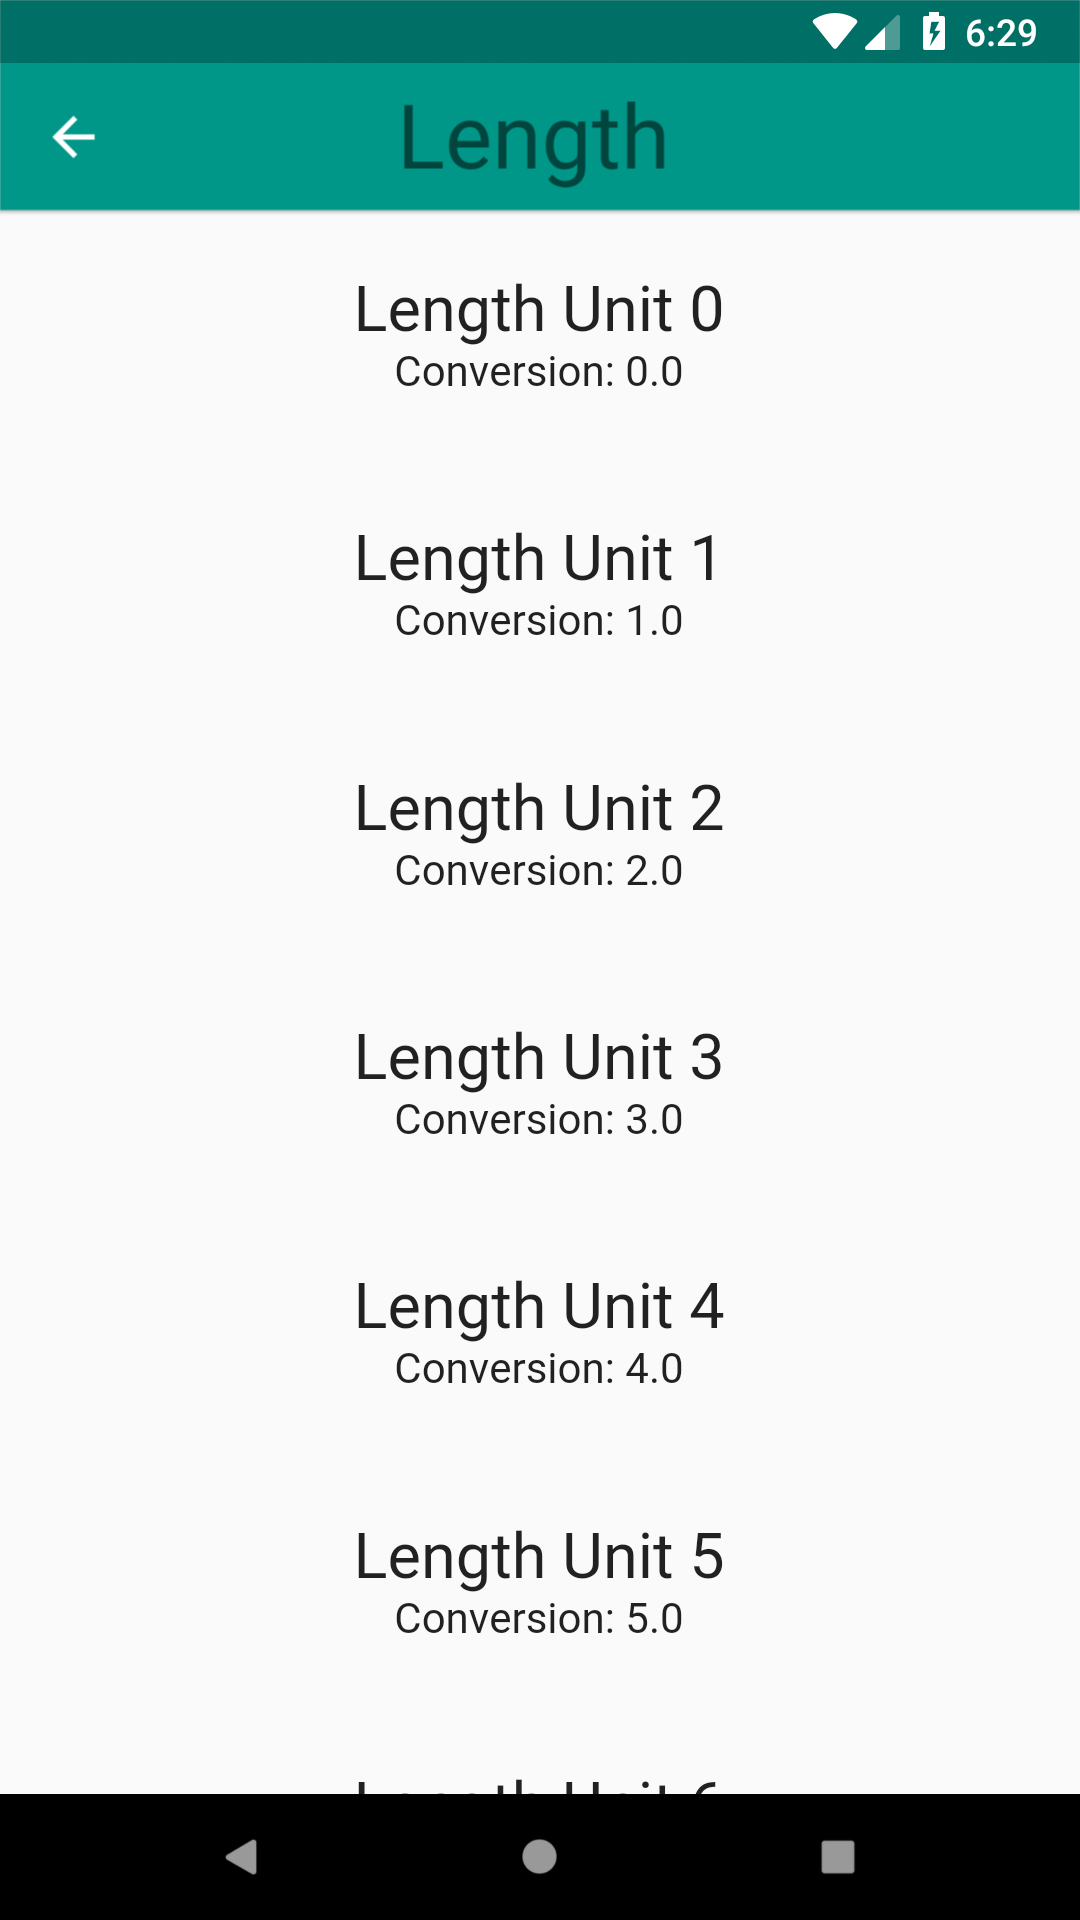
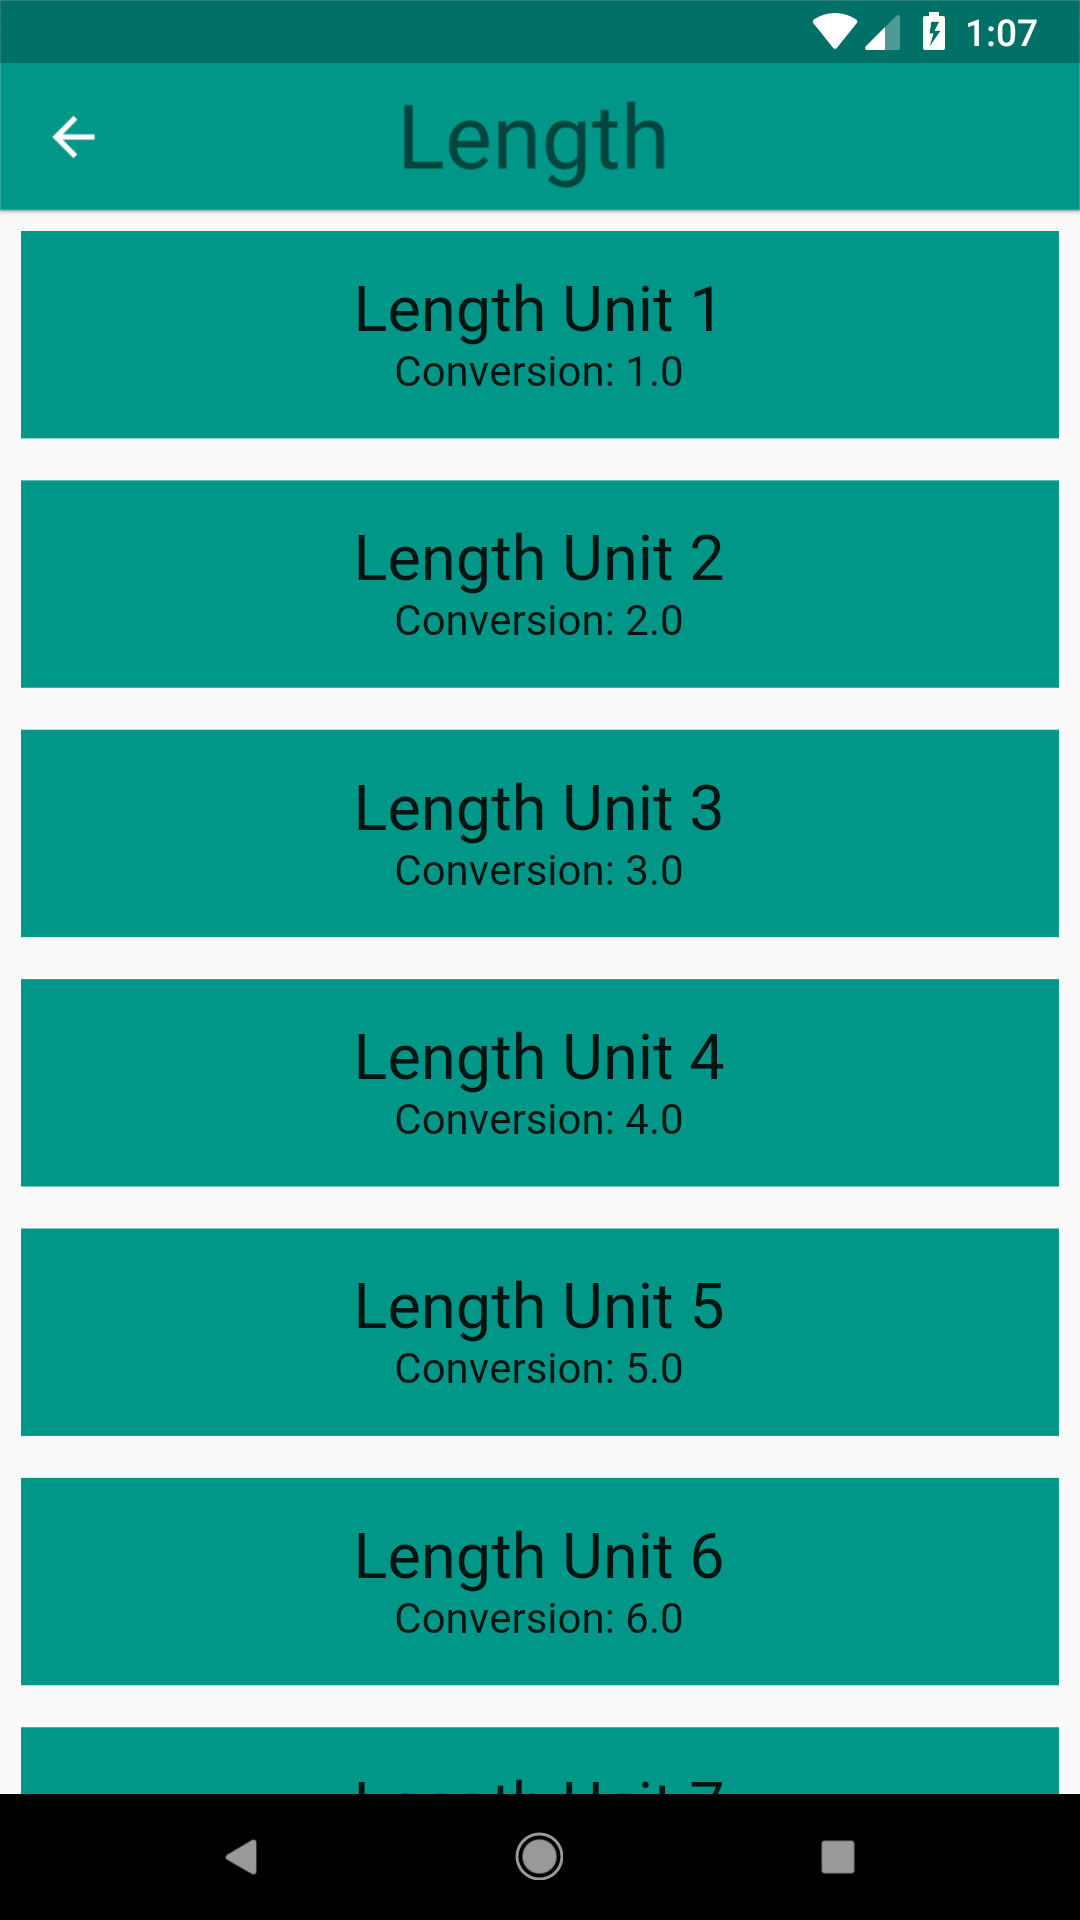
update screenshots and READMEs for mock units

diff --git a/course/06_input/solution_06_input/lib/converter_route.dart b/course/06_input/solution_06_input/lib/converter_route.dart
@@ -7,9 +7,10 @@ import 'package:meta/meta.dart';
 
 import 'package:solution_06_input/unit.dart';
 
-/// Converter route (page) where users can input amounts to convert.
-///
-/// Currently, it just displays a list of mock units.
+const _padding = EdgeInsets.all(16.0);
+
+/// [ConverterRoute] where users can input amounts to convert in one unit
+/// and retrieve the conversion in another unit
 class ConverterRoute extends StatefulWidget {
   /// This [Category]'s name.
   final String name;
@@ -34,31 +35,250 @@ class ConverterRoute extends StatefulWidget {
 }
 
 class _ConverterRouteState extends State<ConverterRoute> {
+  final _inputKey = GlobalKey(debugLabel: 'inputText');
+  Unit _fromValue;
+  Unit _toValue;
+  double _inputValue;
+  String _convertedValue = '';
+  bool _showValidationError = false;
+
+  void _updateConversion() {
+    // For the static units, we do the conversion ourselves
+    setState(() {
+      _convertedValue =
+          _format(_inputValue * (_toValue.conversion / _fromValue.conversion));
+    });
+  }
+
+  /// Clean up conversion; trim trailing zeros, e.g. 5.500 -> 5.5, 10.0 -> 10
+  String _format(double conversion) {
+    var outputNum = conversion.toStringAsPrecision(7);
+    if (outputNum.contains('.') && outputNum.endsWith('0')) {
+      var i = outputNum.length - 1;
+      while (outputNum[i] == '0') {
+        i -= 1;
+      }
+      outputNum = outputNum.substring(0, i + 1);
+    }
+    if (outputNum.endsWith('.')) {
+      return outputNum.substring(0, outputNum.length - 1);
+    }
+    return outputNum;
+  }
+
+  void _updateInputValue(String input) {
+    setState(() {
+      if (input == null || input.isEmpty) {
+        _convertedValue = '';
+      } else {
+        // Even though we are using the numerical keyboard, we still have to check
+        // for non-numerical input such as '5..0' or '6 -3'
+        try {
+          final inputDouble = double.parse(input);
+          _showValidationError = false;
+          _inputValue = inputDouble;
+          _updateConversion();
+        } on Exception catch (e) {
+          print('Error: $e');
+          _showValidationError = true;
+        }
+      }
+    });
+  }
+
+  Unit _getUnit(String unitName) {
+    return widget.units.firstWhere(
+      (Unit unit) {
+        return unit.name == unitName;
+      },
+      orElse: null,
+    );
+  }
+
+  void _updateFromConversion(dynamic unitName) {
+    setState(() {
+      _fromValue = _getUnit(unitName);
+    });
+    if (_inputValue != null) {
+      _updateConversion();
+    }
+  }
+
+  void _updateToConversion(dynamic unitName) {
+    setState(() {
+      _toValue = _getUnit(unitName);
+    });
+    if (_inputValue != null) {
+      _updateConversion();
+    }
+  }
+
+  Widget _createDropdown(String name, List<DropdownMenuItem> units,
+      ValueChanged<dynamic> onChanged) {
+    return Container(
+      margin: EdgeInsets.only(top: 16.0),
+      decoration: BoxDecoration(
+        // This sets the color of the [DropdownButton] itself
+        color: Colors.grey[50],
+        border: Border.all(
+          color: Colors.grey[400],
+          width: 1.0,
+        ),
+      ),
+      padding: EdgeInsets.symmetric(vertical: 8.0),
+      child: Theme(
+        // This sets the color of the [DropdownMenuItem]
+        data: Theme.of(context).copyWith(
+              canvasColor: Colors.grey[50],
+            ),
+        child: DropdownButtonHideUnderline(
+          child: ButtonTheme(
+            alignedDropdown: true,
+            child: DropdownButton(
+              value: name,
+              items: units,
+              onChanged: onChanged,
+              style: Theme.of(context).textTheme.title,
+            ),
+          ),
+        ),
+      ),
+    );
+  }
+
   @override
   Widget build(BuildContext context) {
-    // Here is just a placeholder for a list of mock units
-    final unitWidgets = widget.units.map((Unit unit) {
-      return Container(
-        color: widget.color,
-        margin: EdgeInsets.all(8.0),
-        padding: EdgeInsets.all(16.0),
-        child: Column(
-          children: <Widget>[
-            Text(
-              unit.name,
-              style: Theme.of(context).textTheme.headline,
-            ),
-            Text(
-              'Conversion: ${unit.conversion}',
-              style: Theme.of(context).textTheme.subhead,
-            ),
-          ],
+    final units = <DropdownMenuItem>[];
+    for (var unit in widget.units) {
+      units.add(DropdownMenuItem(
+        value: unit.name,
+        child: Container(
+          child: Text(
+            unit.name,
+            softWrap: true,
+          ),
         ),
-      );
-    }).toList();
+      ));
+    }
 
-    return ListView(
-      children: unitWidgets,
+    // Update the `from` [DropdownMenuItem] when we switch [Categories]
+    if (_fromValue == null ||
+        !(units.any((unit) {
+          return unit.value == _fromValue.name;
+        }))) {
+      setState(() {
+        _fromValue = widget.units[0];
+      });
+    }
+
+    // Update the `to` [DropdownMenuItem] when we switch [Categories]
+    if (_toValue == null ||
+        !(units.any((unit) {
+          return unit.value == _toValue.name;
+        }))) {
+      setState(() {
+        _toValue = widget.units[1];
+      });
+
+      // Likewise, update the Output when we switch [Categories]
+      if (_inputValue != null) {
+        setState(() {
+          _updateConversion();
+        });
+      }
+    }
+
+    final input = Padding(
+      padding: _padding,
+      child: Column(
+        crossAxisAlignment: CrossAxisAlignment.stretch,
+        children: [
+          // This is the widget that accepts text input. In this case, it
+          // accepts numbers and calls the onChanged property on update.
+          // You can read more about it here: https://flutter.io/text-input
+          TextField(
+            key: _inputKey,
+            style: Theme.of(context).textTheme.display1,
+            decoration: InputDecoration(
+              labelStyle: Theme.of(context).textTheme.display1,
+              errorText: _showValidationError ? 'Invalid number entered' : null,
+              labelText: 'Input',
+              border: OutlineInputBorder(
+                borderRadius: BorderRadius.circular(0.0),
+              ),
+            ),
+            // Since we only want numerical input, we use a number keyboard. There
+            // are also other keyboards for dates, emails, phone numbers, etc.
+            keyboardType: TextInputType.number,
+            onChanged: _updateInputValue,
+          ),
+          _createDropdown(_fromValue.name, units, _updateFromConversion),
+        ],
+      ),
+    );
+
+    final arrows = RotatedBox(
+      quarterTurns: 1,
+      child: Icon(
+        Icons.compare_arrows,
+        size: 40.0,
+      ),
+    );
+
+    final output = Padding(
+      padding: _padding,
+      child: Column(
+        crossAxisAlignment: CrossAxisAlignment.stretch,
+        children: [
+          InputDecorator(
+            child: Text(
+              _convertedValue,
+              style: Theme.of(context).textTheme.display1,
+            ),
+            decoration: InputDecoration(
+              labelText: 'Output',
+              labelStyle: Theme.of(context).textTheme.display1,
+              border: OutlineInputBorder(
+                borderRadius: BorderRadius.circular(0.0),
+              ),
+            ),
+          ),
+          _createDropdown(_toValue.name, units, _updateToConversion),
+        ],
+      ),
+    );
+
+    final converter = Column(
+      crossAxisAlignment: CrossAxisAlignment.stretch,
+      children: [
+        input,
+        arrows,
+        output,
+      ],
+    );
+
+    // Based on the orientation of the parent widget, figure out how to best
+    // lay out our converter.
+    return Padding(
+      padding: _padding,
+      child: OrientationBuilder(
+        builder: (BuildContext context, Orientation orientation) {
+          if (orientation == Orientation.portrait) {
+            return SingleChildScrollView(
+              child: converter,
+            );
+          } else {
+            return SingleChildScrollView(
+              child: Center(
+                child: Container(
+                  width: 450.0,
+                  child: converter,
+                ),
+              ),
+            );
+          }
+        },
+      ),
     );
   }
 }

diff --git a/course/05_stateful_widgets/solution_05_stateful_widgets/lib/category_route.dart b/course/05_stateful_widgets/solution_05_stateful_widgets/lib/category_route.dart
@@ -71,6 +71,7 @@ class _CategoryRouteState extends State<CategoryRoute> {
   /// Returns a list of mock [Unit]s.
   List<Unit> _retrieveUnitList(String categoryName) {
     return List.generate(10, (int i) {
+      i += 1;
       return Unit(
         name: '$categoryName Unit $i',
         conversion: i.toDouble(),

diff --git a/course/06_input/solution_06_input/lib/category_route.dart b/course/06_input/solution_06_input/lib/category_route.dart
@@ -71,6 +71,7 @@ class _CategoryRouteState extends State<CategoryRoute> {
   /// Returns a list of mock [Unit]s.
   List<Unit> _retrieveUnitList(String categoryName) {
     return List.generate(10, (int i) {
+      i += 1;
       return Unit(
         name: '$categoryName Unit $i',
         conversion: i.toDouble(),

diff --git a/course/04_navigation/solution_04_navigation/lib/category_route.dart b/course/04_navigation/solution_04_navigation/lib/category_route.dart
@@ -51,6 +51,7 @@ class CategoryRoute extends StatelessWidget {
   /// Returns a list of mock [Unit]s.
   List<Unit> _retrieveUnitList(String categoryName) {
     return List.generate(10, (int i) {
+      i += 1;
       return Unit(
         name: '$categoryName Unit $i',
         conversion: i.toDouble(),

diff --git a/course/04_navigation/task_04_navigation/lib/category_route.dart b/course/04_navigation/task_04_navigation/lib/category_route.dart
@@ -51,6 +51,7 @@ class CategoryRoute extends StatelessWidget {
   /// Returns a list of mock [Unit]s.
   List<Unit> _retrieveUnitList(String categoryName) {
     return List.generate(10, (int i) {
+      i += 1;
       return Unit(
         name: '$categoryName Unit $i',
         conversion: i.toDouble(),

diff --git a/course/05_stateful_widgets/task_05_stateful_widgets/lib/category_route.dart b/course/05_stateful_widgets/task_05_stateful_widgets/lib/category_route.dart
@@ -54,6 +54,7 @@ class CategoryRoute extends StatelessWidget {
   /// Returns a list of mock [Unit]s.
   List<Unit> _retrieveUnitList(String categoryName) {
     return List.generate(10, (int i) {
+      i += 1;
       return Unit(
         name: '$categoryName Unit $i',
         conversion: i.toDouble(),

diff --git a/course/04_navigation/solution_04_navigation/README.md b/course/04_navigation/solution_04_navigation/README.md
@@ -17,7 +17,7 @@
 ## Screenshots
 
 ### Start
-<img src='../../screenshots/04_navigation.png' width='350'><img src='../../screenshots/04_navigation_2.png' width='350'>
+<img src='../../screenshots/04_navigation.png' width='350'>
 
 ### Solution
-<img src='../../screenshots/04_navigation_3.png' width='350'><img src='../../screenshots/04_navigation_4.gif' width='350'>
+<img src='../../screenshots/04_navigation_2.png' width='350'><img src='../../screenshots/04_navigation_3.gif' width='350'>

diff --git a/course/04_navigation/task_04_navigation/README.md b/course/04_navigation/task_04_navigation/README.md
@@ -17,7 +17,7 @@
 ## Screenshots
 
 ### Start
-<img src='../../screenshots/04_navigation.png' width='350'><img src='../../screenshots/04_navigation_2.png' width='350'>
+<img src='../../screenshots/04_navigation.png' width='350'>
 
 ### Solution
-<img src='../../screenshots/04_navigation_3.png' width='350'><img src='../../screenshots/04_navigation_4.gif' width='350'>
+<img src='../../screenshots/04_navigation_2.png' width='350'><img src='../../screenshots/04_navigation_3.gif' width='350'>
